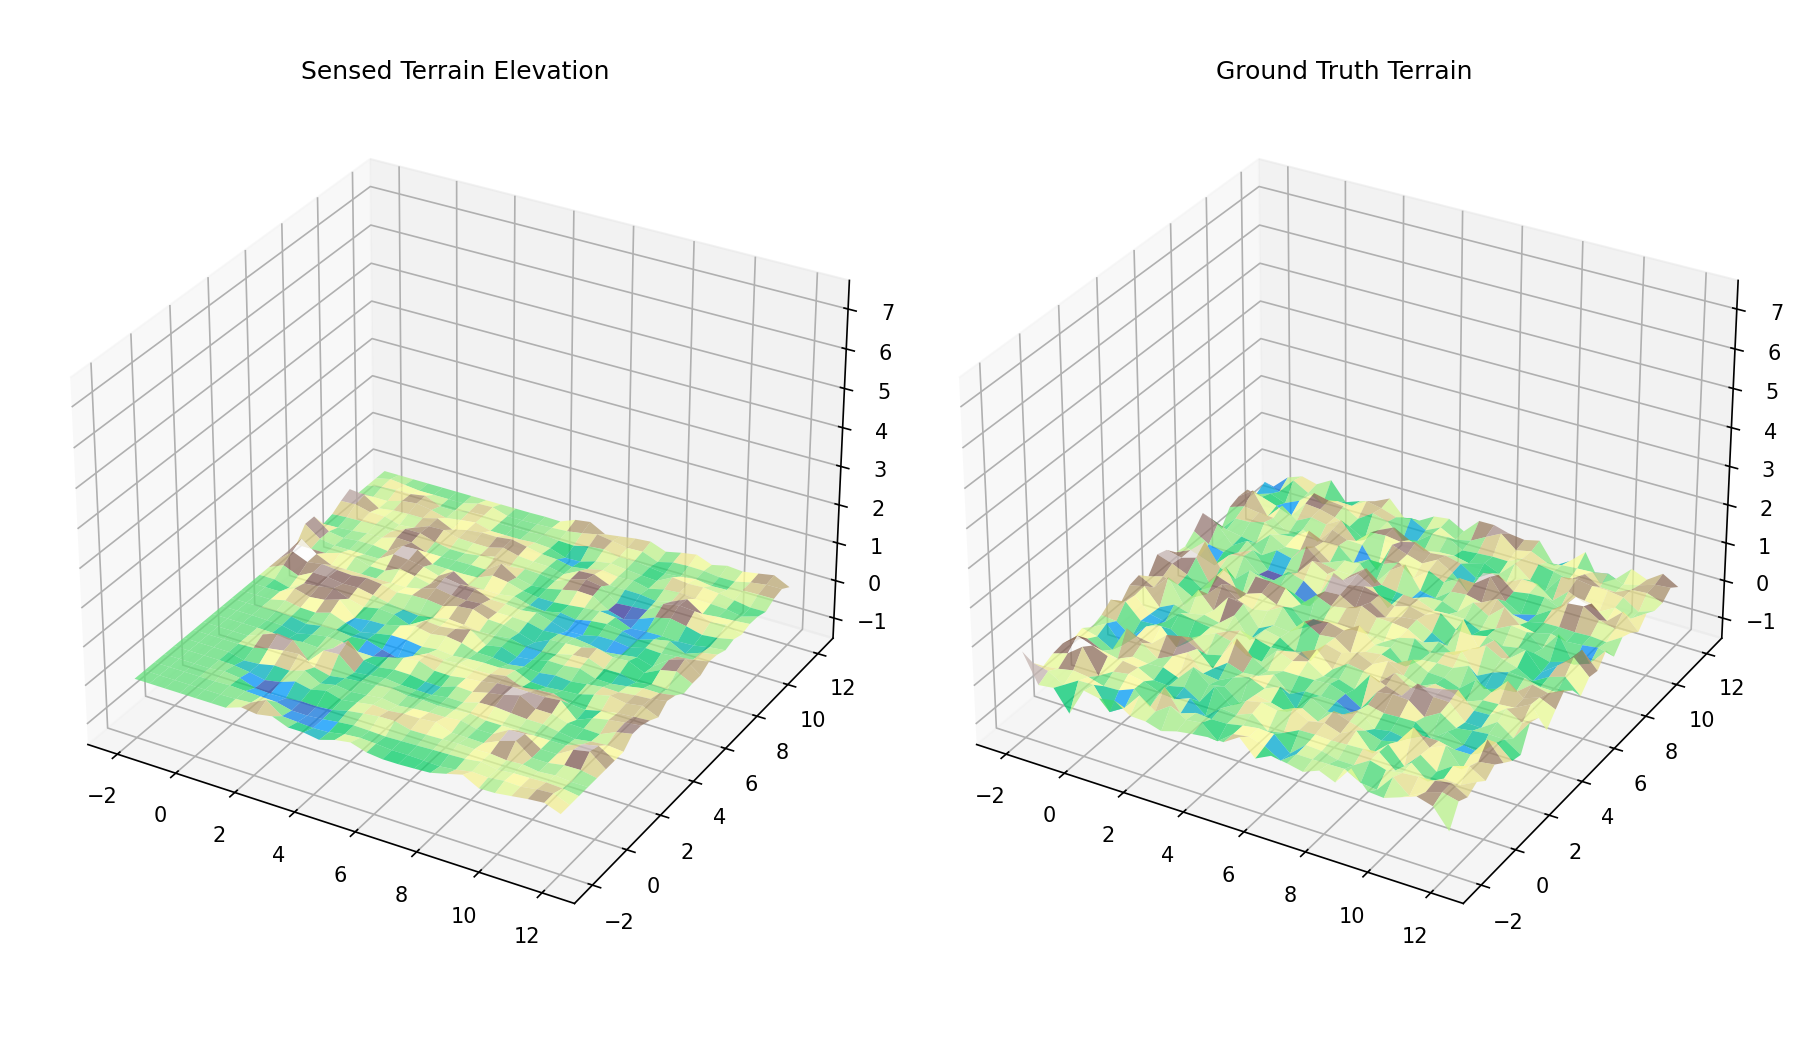
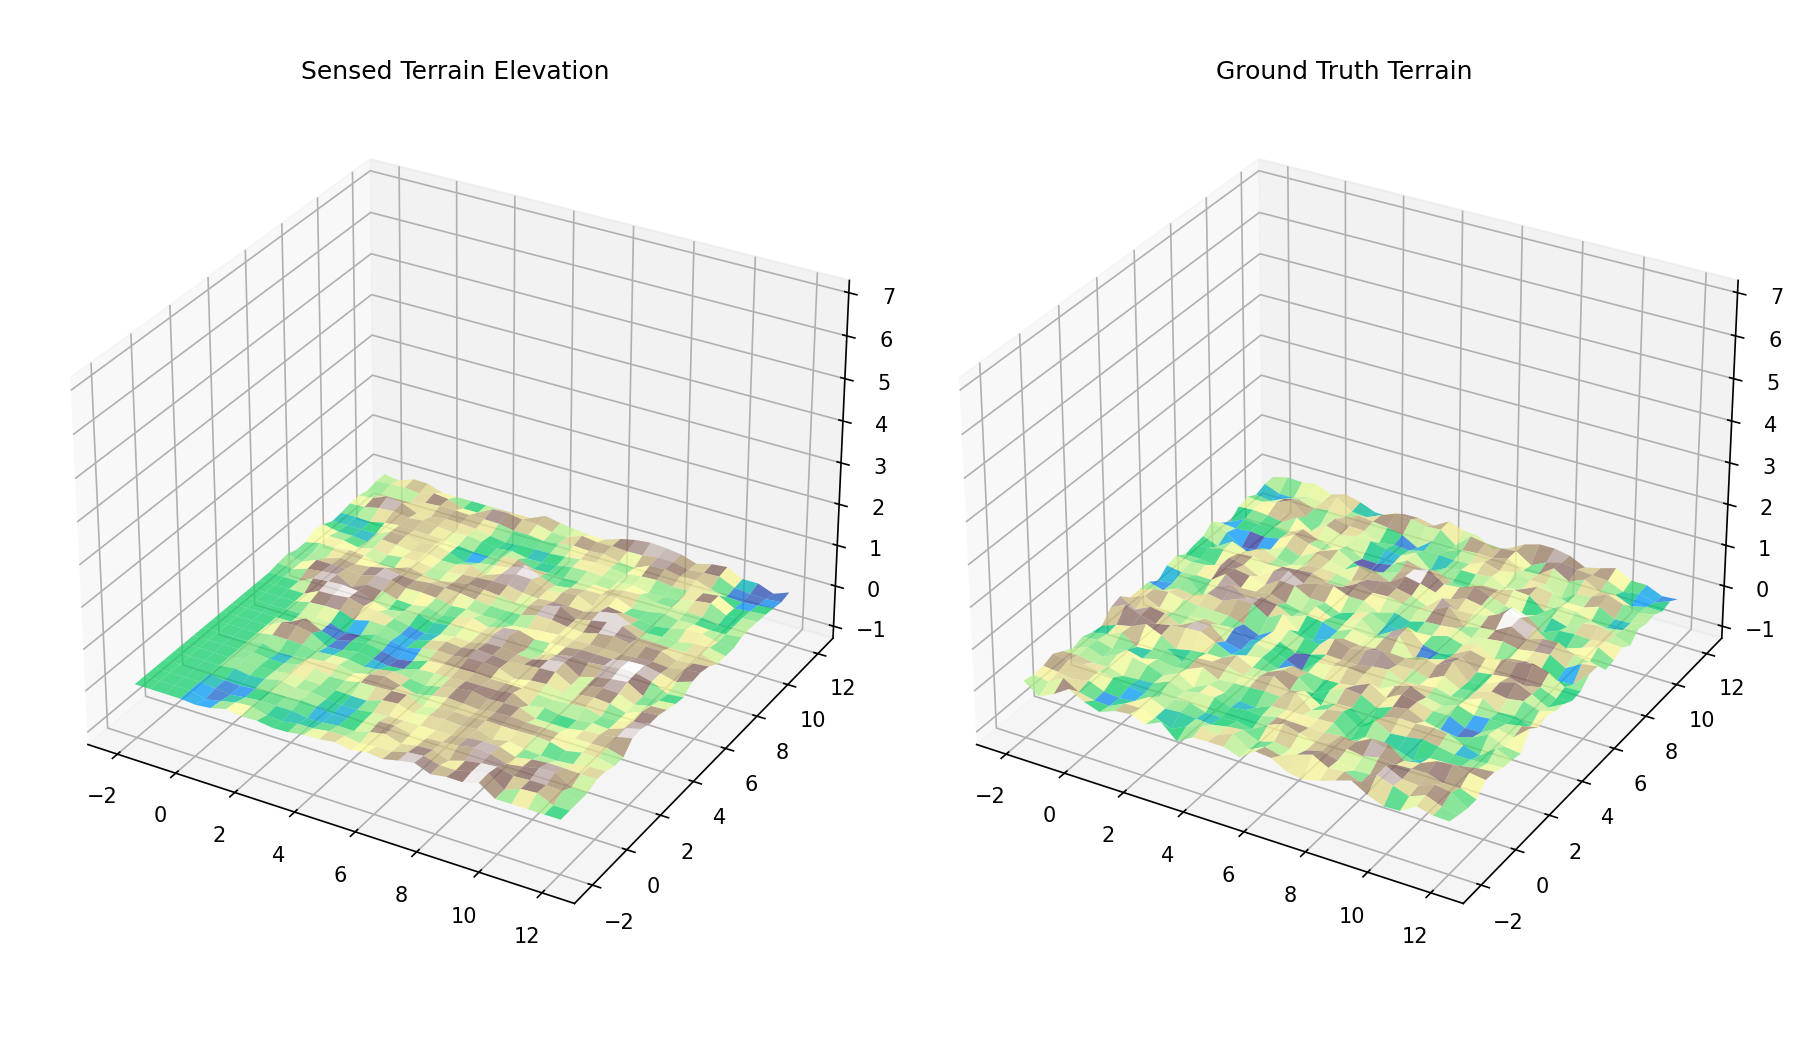
sim environment updates

diff --git a/src/terraneousMPPI_test.py b/src/terraneousMPPI_test.py
@@ -69,8 +69,8 @@ if state_dim == 4:
     x_goal = np.array([0.0, 20.0, np.pi/2, 0.0])
 
 else:
-    Q_mod=np.diag([1.0, 1.0, 0.5, 1.0, 2.0])
-    Qf_mod=np.diag([40.0, 40.0, 0.5, 10.0, 10.0])
+    Q_mod=np.diag([1.0, 1.0, 0.75, 1.0, 2.0])
+    Qf_mod=np.diag([40.0, 40.0, 1.0, 10.0, 10.0])
     R_mod = np.eye(control_dim)
     umin_mod = np.array([-3.0, -3.0])
     umax_mod = np.array([3.0, 3.0])
@@ -82,7 +82,7 @@ else:
 
 
 config = MPPIConfig(
-    num_samples=6500,
+    num_samples=10000,
     horizon=40,
     dt=0.05,
     lambda_=30.0, # increase temperature for smoother trajectory
@@ -91,7 +91,7 @@ config = MPPIConfig(
     Qf=Qf_mod,
     R=R_mod,
 
-    Q_obs=100.0,
+    Q_obs=110.0,
     d_safe=env.robot_radius + 0.1,
 
     dynamics_params=np.array([2*env.robot_radius, 0.1]),
@@ -142,7 +142,7 @@ waypoint_selector = WaypointSelector(
     goal_weight=25.0,
     obstacle_weight=30.0,
     terrain_weight=12.5,
-    heading_weight=0.5,
+    heading_weight=1.0,
     d_safe=config.d_safe
 )
 

diff --git a/environments/terraneousEnv.py b/environments/terraneousEnv.py
@@ -376,7 +376,7 @@ class TerraneousEnv:
             self.terrain = np.zeros((terrain_size_x, terrain_size_y), dtype=np.float32)
             return
         
-        sigma_cells = self.dx
+        sigma_cells = 0.7*self.dx
         raw = 0.7*self.dx*self.dx*np.random.randn(terrain_size_x, terrain_size_y).astype(np.float32)
         smooth = gaussian_filter(raw, sigma=sigma_cells)
         self.terrain = smooth.astype(np.float32)
